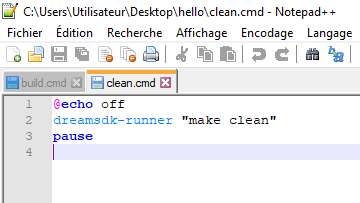
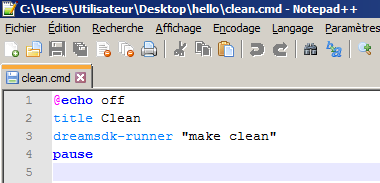
Updating Runner section.

diff --git a/pages/runner/index.html b/pages/runner/index.html
@@ -39,6 +39,7 @@ class="font-fixed">build.cmd</span>. Copy this content on it:</p>
 
 <div class="fixed-block">
 @echo off<br>
+title Build<br>
 dreamsdk-runner "make"<br>
 pause<br>
 </div>
@@ -63,6 +64,7 @@ class="font-fixed">clean.cmd</span> file and putting this content on it:</p>
 
 <div class="fixed-block">
 @echo off<br>
+title Clean<br>
 dreamsdk-runner "make clean"<br>
 pause<br>
 </div>
